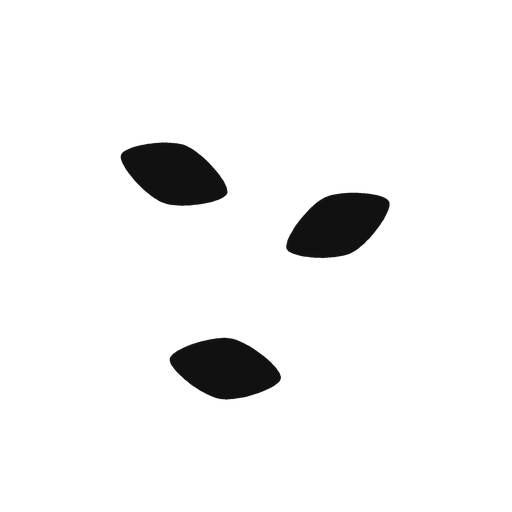
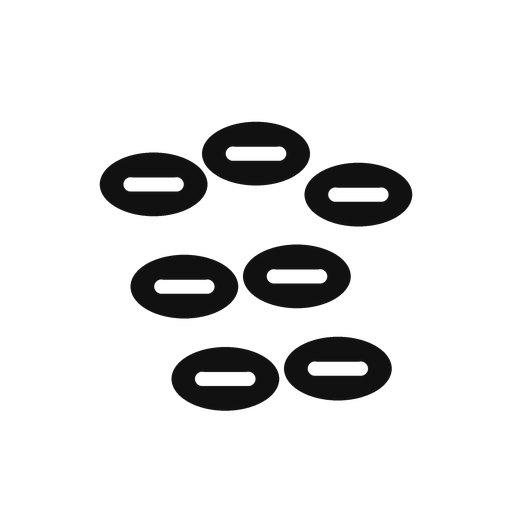
feat(sigil): another legibility pass — nine glyphs redrawn
Nine more failed the contact sheet at render size and are redrawn. The pattern
in the failures is that a silhouette has to be unlike every other silhouette
in the set, not merely correct on its own: several of these were accurate
drawings that collided with a neighbour once shrunk.

Ovoid shapes had quietly become a crowd — a plain egg, an oil drop, a dry-
storage mark and a suppository were four variations of the same outline
separated only by interior marks that vanish first. The egg takes a cracked
shell, which nothing else can have; the suppository takes its foil wrapper,
so it reads as a thing inside a packet rather than a thing.

Sesame was three tilted diamonds and read as leaves. A single sesame seed is
not identifiable at any size, so what has to be drawn is the crowd: flat
seeds, aligned, close together. Rice and bread had the same dome-over-a-base
outline; grains punched into the mound separate them. The water glass was a
near-uniform rectangle and read as a pill until it tapered.

The drumstick got the two knobs at the bone's end that make a leg of meat
legible everywhere, the patch became a plaster with a pad rather than a badge,
the upset stomach traded a wave-patterned oval — which read as a decorated
egg — for a belly with a bolt through it, and breathlessness stopped being
scribbled lines over an X and became lungs, one of the few shapes that means
"breath" on its own.

Changed region(s): [[0.1875, 0.2188, 0.8125, 0.625], [0.3125, 0.6562, 0.7812, 0.8125]]

diff --git a/engine/glyphs.py b/engine/glyphs.py
@@ -79,7 +79,13 @@ def sachet(c: Canvas) -> None:
 
 
 def suppository(c: Canvas) -> None:
-    c.blob([(0.50, 0.08), (0.68, 0.34), (0.68, 0.74), (0.50, 0.90), (0.32, 0.74), (0.32, 0.34)])
+    # 민 탄환 모양은 달걀·기름 방울과 겹쳤다. 알약이 포장 안에 있다는 것이 보여야
+    # 좌약으로 읽힌다 — 양끝의 꼬임이 그 표시다.
+    c.blob([(0.50, 0.18), (0.66, 0.38), (0.66, 0.70), (0.50, 0.84), (0.34, 0.70), (0.34, 0.38)])
+    c.poly([(0.36, 0.20), (0.64, 0.20), (0.70, 0.06), (0.30, 0.06)])
+    c.poly([(0.36, 0.82), (0.64, 0.82), (0.70, 0.96), (0.30, 0.96)])
+    c.hole_path([(0.34, 0.19), (0.66, 0.19)], w=HAIR)
+    c.hole_path([(0.34, 0.83), (0.66, 0.83)], w=HAIR)
 
 
 def syringe(c: Canvas) -> None:
@@ -91,9 +97,13 @@ def syringe(c: Canvas) -> None:
 
 
 def patch(c: Canvas) -> None:
-    c.rect(0.14, 0.34, 0.86, 0.66, r=0.06, fill=True)
-    c.hole_circle(0.50, 0.50, 0.13)
-    c.circle(0.50, 0.50, 0.06, fill=True)
+    # 구멍 뚫린 사각형은 명함이나 배지로 보였다. 반창고는 가운데 패드가 있어야 한다.
+    c.rect(0.08, 0.36, 0.92, 0.64, r=0.13, fill=True)
+    c.hole_rect(0.34, 0.36, 0.66, 0.64, r=0.03)           # 가운데 패드
+    c.rect(0.36, 0.38, 0.64, 0.62, r=0.02, fill=True)
+    for dx in (-0.06, 0, 0.06):
+        for dy in (-0.05, 0.05):
+            c.hole_circle(0.50 + dx, 0.50 + dy, 0.018)    # 패드의 구멍
 
 
 def spray(c: Canvas) -> None:
@@ -224,8 +234,11 @@ def allergen_milk(c: Canvas) -> None:
 
 
 def allergen_egg(c: Canvas) -> None:
+    # 민 타원은 기름 방울·건조 표시와 실루엣이 겹쳤다. 금 간 껍데기는 달걀에만 있다.
     c.blob([(0.50, 0.08), (0.68, 0.34), (0.74, 0.62), (0.62, 0.86), (0.38, 0.86),
             (0.26, 0.62), (0.32, 0.34)])
+    c.hole_path([(0.26, 0.52), (0.38, 0.46), (0.46, 0.56), (0.56, 0.46),
+                 (0.64, 0.56), (0.74, 0.50)], w=THIN)
 
 
 def allergen_gluten(c: Canvas) -> None:
@@ -254,11 +267,13 @@ def allergen_soy(c: Canvas) -> None:
 
 
 def allergen_sesame(c: Canvas) -> None:
-    for x, y, a in ((0.34, 0.34, 20), (0.66, 0.44, -25), (0.44, 0.72, 10)):
-        r = math.radians(a)
-        dx, dy = 0.11 * math.cos(r), 0.11 * math.sin(r)
-        nx, ny = -0.06 * math.sin(r), 0.06 * math.cos(r)
-        c.blob([(x + dx, y + dy), (x + nx, y + ny), (x - dx, y - dy), (x - nx, y - ny)])
+    # 제각각 기울인 마름모는 잎사귀로 보였다. 참깨는 낱알 하나로는 알 수 없고
+    # '작고 납작한 것이 여럿' 이라는 무리로만 읽힌다 — 방향을 맞추고 촘촘히 둔다.
+    for x, y in ((0.30, 0.36), (0.50, 0.30), (0.70, 0.38),
+                 (0.36, 0.56), (0.58, 0.54),
+                 (0.44, 0.74), (0.66, 0.72)):
+        c.oval(x, y, 0.105, 0.062, fill=True)
+        c.hole_path([(x - 0.045, y), (x + 0.045, y)], w=HAIR)
 
 
 def allergen_fish(c: Canvas) -> None:
@@ -271,7 +286,10 @@ def allergen_fish(c: Canvas) -> None:
 
 
 def food_rice(c: Canvas) -> None:
-    c.wedge(0.50, 0.48, 0.32, 180, 360)                  # 봉긋한 밥
+    # 봉긋한 덩어리 + 그릇은 빵 실루엣과 겹쳤다. 낟알이 보여야 밥으로 갈린다.
+    c.wedge(0.50, 0.48, 0.32, 180, 360)
+    for x, y in ((0.40, 0.34), (0.52, 0.28), (0.62, 0.36), (0.46, 0.42), (0.58, 0.44)):
+        c.hole_path([(x - 0.035, y), (x + 0.035, y)], w=HAIR)
     c.blob([(0.18, 0.50), (0.82, 0.50), (0.68, 0.86), (0.32, 0.86)])   # 그릇
     c.hole_path([(0.24, 0.60), (0.76, 0.60)], w=HAIR)
 
@@ -286,9 +304,12 @@ def food_bread(c: Canvas) -> None:
 
 
 def food_meat(c: Canvas) -> None:
-    c.blob([(0.30, 0.28), (0.64, 0.22), (0.84, 0.40), (0.82, 0.66), (0.54, 0.82), (0.28, 0.70)])
-    c.rect(0.08, 0.42, 0.32, 0.60, r=0.08, fill=True)    # 뼈
-    c.hole_circle(0.62, 0.50, 0.09)
+    # 덩어리에 막대를 붙인 형태는 무엇인지 알 수 없었다. 뼈 끝의 두 혹이 있어야
+    # 닭다리로 읽힌다 — 고기 아이콘이 보편적으로 그렇게 그려지는 이유다.
+    c.blob([(0.62, 0.14), (0.84, 0.28), (0.86, 0.52), (0.68, 0.66), (0.44, 0.60), (0.42, 0.30)])
+    c.path([(0.52, 0.54), (0.26, 0.80)], w=THIN)          # 뼈대
+    c.circle(0.20, 0.80, 0.085, fill=True)                # 뼈 끝의 혹 둘
+    c.circle(0.27, 0.88, 0.085, fill=True)
 
 
 def food_vegetable(c: Canvas) -> None:
@@ -417,8 +438,10 @@ def food_empty_bowl(c: Canvas) -> None:
 
 
 def water_glass(c: Canvas) -> None:
-    c.blob([(0.34, 0.14), (0.66, 0.14), (0.62, 0.88), (0.38, 0.88)])
-    c.hole_path([(0.365, 0.40), (0.635, 0.40)], w=HAIR)
+    # 폭이 거의 일정해 알약처럼 보였다. 아래로 좁아지는 것이 잔의 실루엣이다.
+    c.poly([(0.30, 0.12), (0.70, 0.12), (0.62, 0.90), (0.38, 0.90)])
+    c.hole_path([(0.335, 0.40), (0.665, 0.40)], w=HAIR)    # 수면
+    c.hole_path([(0.355, 0.62), (0.645, 0.62)], w=HAIR)
 
 
 def storage_fridge(c: Canvas) -> None:
@@ -511,20 +534,25 @@ def symptom_skin(c: Canvas) -> None:
 
 
 def symptom_gut(c: Canvas) -> None:
-    # 원 안의 물결은 무슨 뜻인지 알 수 없었다. 배를 그리고 뒤틀림을 구멍으로 판다.
-    c.blob([(0.48, 0.14), (0.70, 0.26), (0.80, 0.50), (0.66, 0.78), (0.36, 0.82),
-            (0.20, 0.56), (0.28, 0.26)])
-    c.hole_path([(0.32, 0.42), (0.46, 0.34), (0.58, 0.46), (0.70, 0.38)], w=THIN, smooth=True)
-    c.hole_path([(0.30, 0.62), (0.44, 0.54), (0.58, 0.66), (0.72, 0.58)], w=THIN, smooth=True)
+    # 물결을 파낸 타원은 장식된 달걀로 보였다. 배(둥근 몸)와 통증(번개)을 나눠 싣는다.
+    c.circle(0.46, 0.60, 0.30, fill=True)
+    c.hole_blob([(0.46, 0.32), (0.56, 0.46), (0.48, 0.50), (0.58, 0.60),
+                 (0.42, 0.86), (0.46, 0.62), (0.36, 0.58), (0.42, 0.46)])
+    for a in (215, 260, 305):
+        import math as _m
+        r = _m.radians(a)
+        c.path([(0.46 + 0.36 * _m.cos(r), 0.60 + 0.36 * _m.sin(r)),
+                (0.46 + 0.46 * _m.cos(r), 0.60 + 0.46 * _m.sin(r))], w=THIN)
 
 
 def symptom_breath(c: Canvas) -> None:
-    # 기도를 그렸더니 무슨 그림인지 알 수 없었다. 흐르는 공기와 그것이 막힌 표시로.
-    for i, y in enumerate((0.24, 0.44, 0.64)):
-        w = 0.34 - i * 0.05
-        c.smooth([(0.50 - w, y), (0.50 - w * 0.4, y - 0.055), (0.50 + w * 0.4, y + 0.055), (0.50 + w, y)],
-                 w=THIN)
-    c.cross(0.50, 0.44, 0.23, w=STROKE)
+    # 물결에 X 를 얹은 것은 낙서로 보였다. 폐는 그 자체로 '숨' 을 뜻하는 몇 안 되는 형태다.
+    c.rect(0.46, 0.10, 0.54, 0.34, r=0.02, fill=True)      # 기관
+    c.path([(0.50, 0.30), (0.34, 0.40)], w=THIN)
+    c.path([(0.50, 0.30), (0.66, 0.40)], w=THIN)
+    c.blob([(0.30, 0.38), (0.44, 0.50), (0.44, 0.78), (0.30, 0.88), (0.18, 0.72), (0.18, 0.48)])
+    c.blob([(0.70, 0.38), (0.82, 0.48), (0.82, 0.72), (0.70, 0.88), (0.56, 0.78), (0.56, 0.50)])
+    c.cross(0.50, 0.62, 0.16, w=STROKE)                    # 막힘
 
 
 def symptom_mouth(c: Canvas) -> None:
